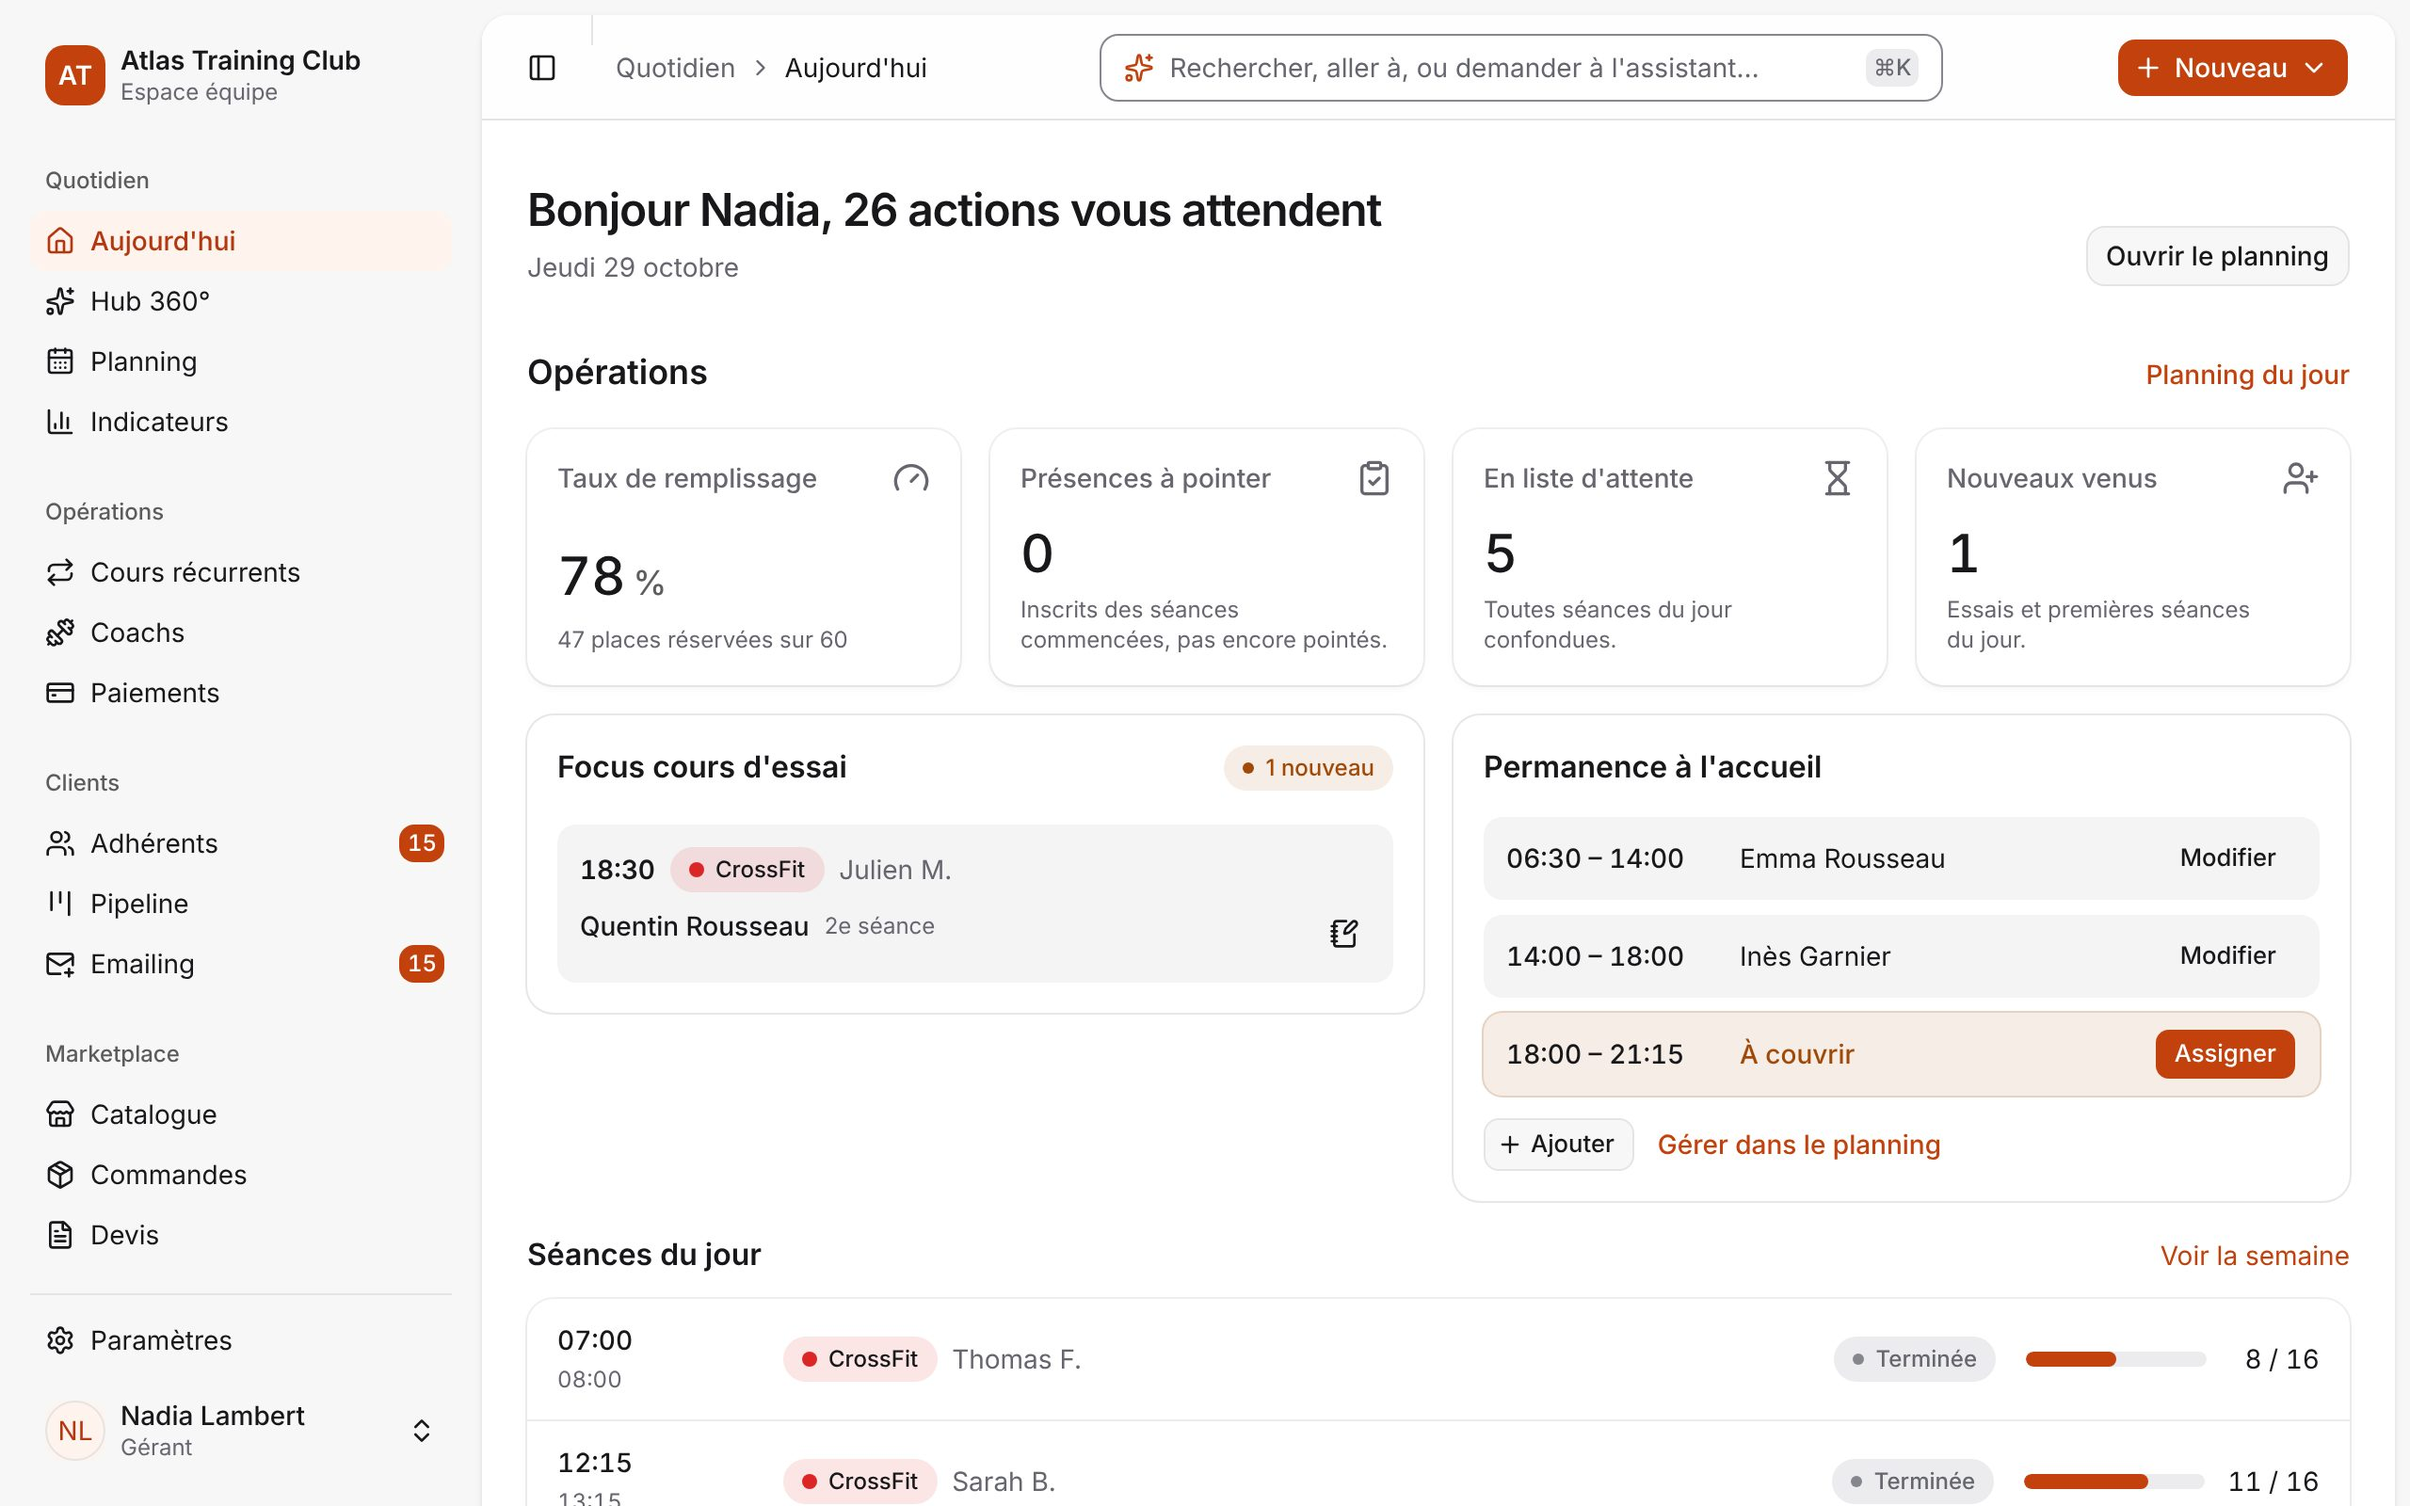
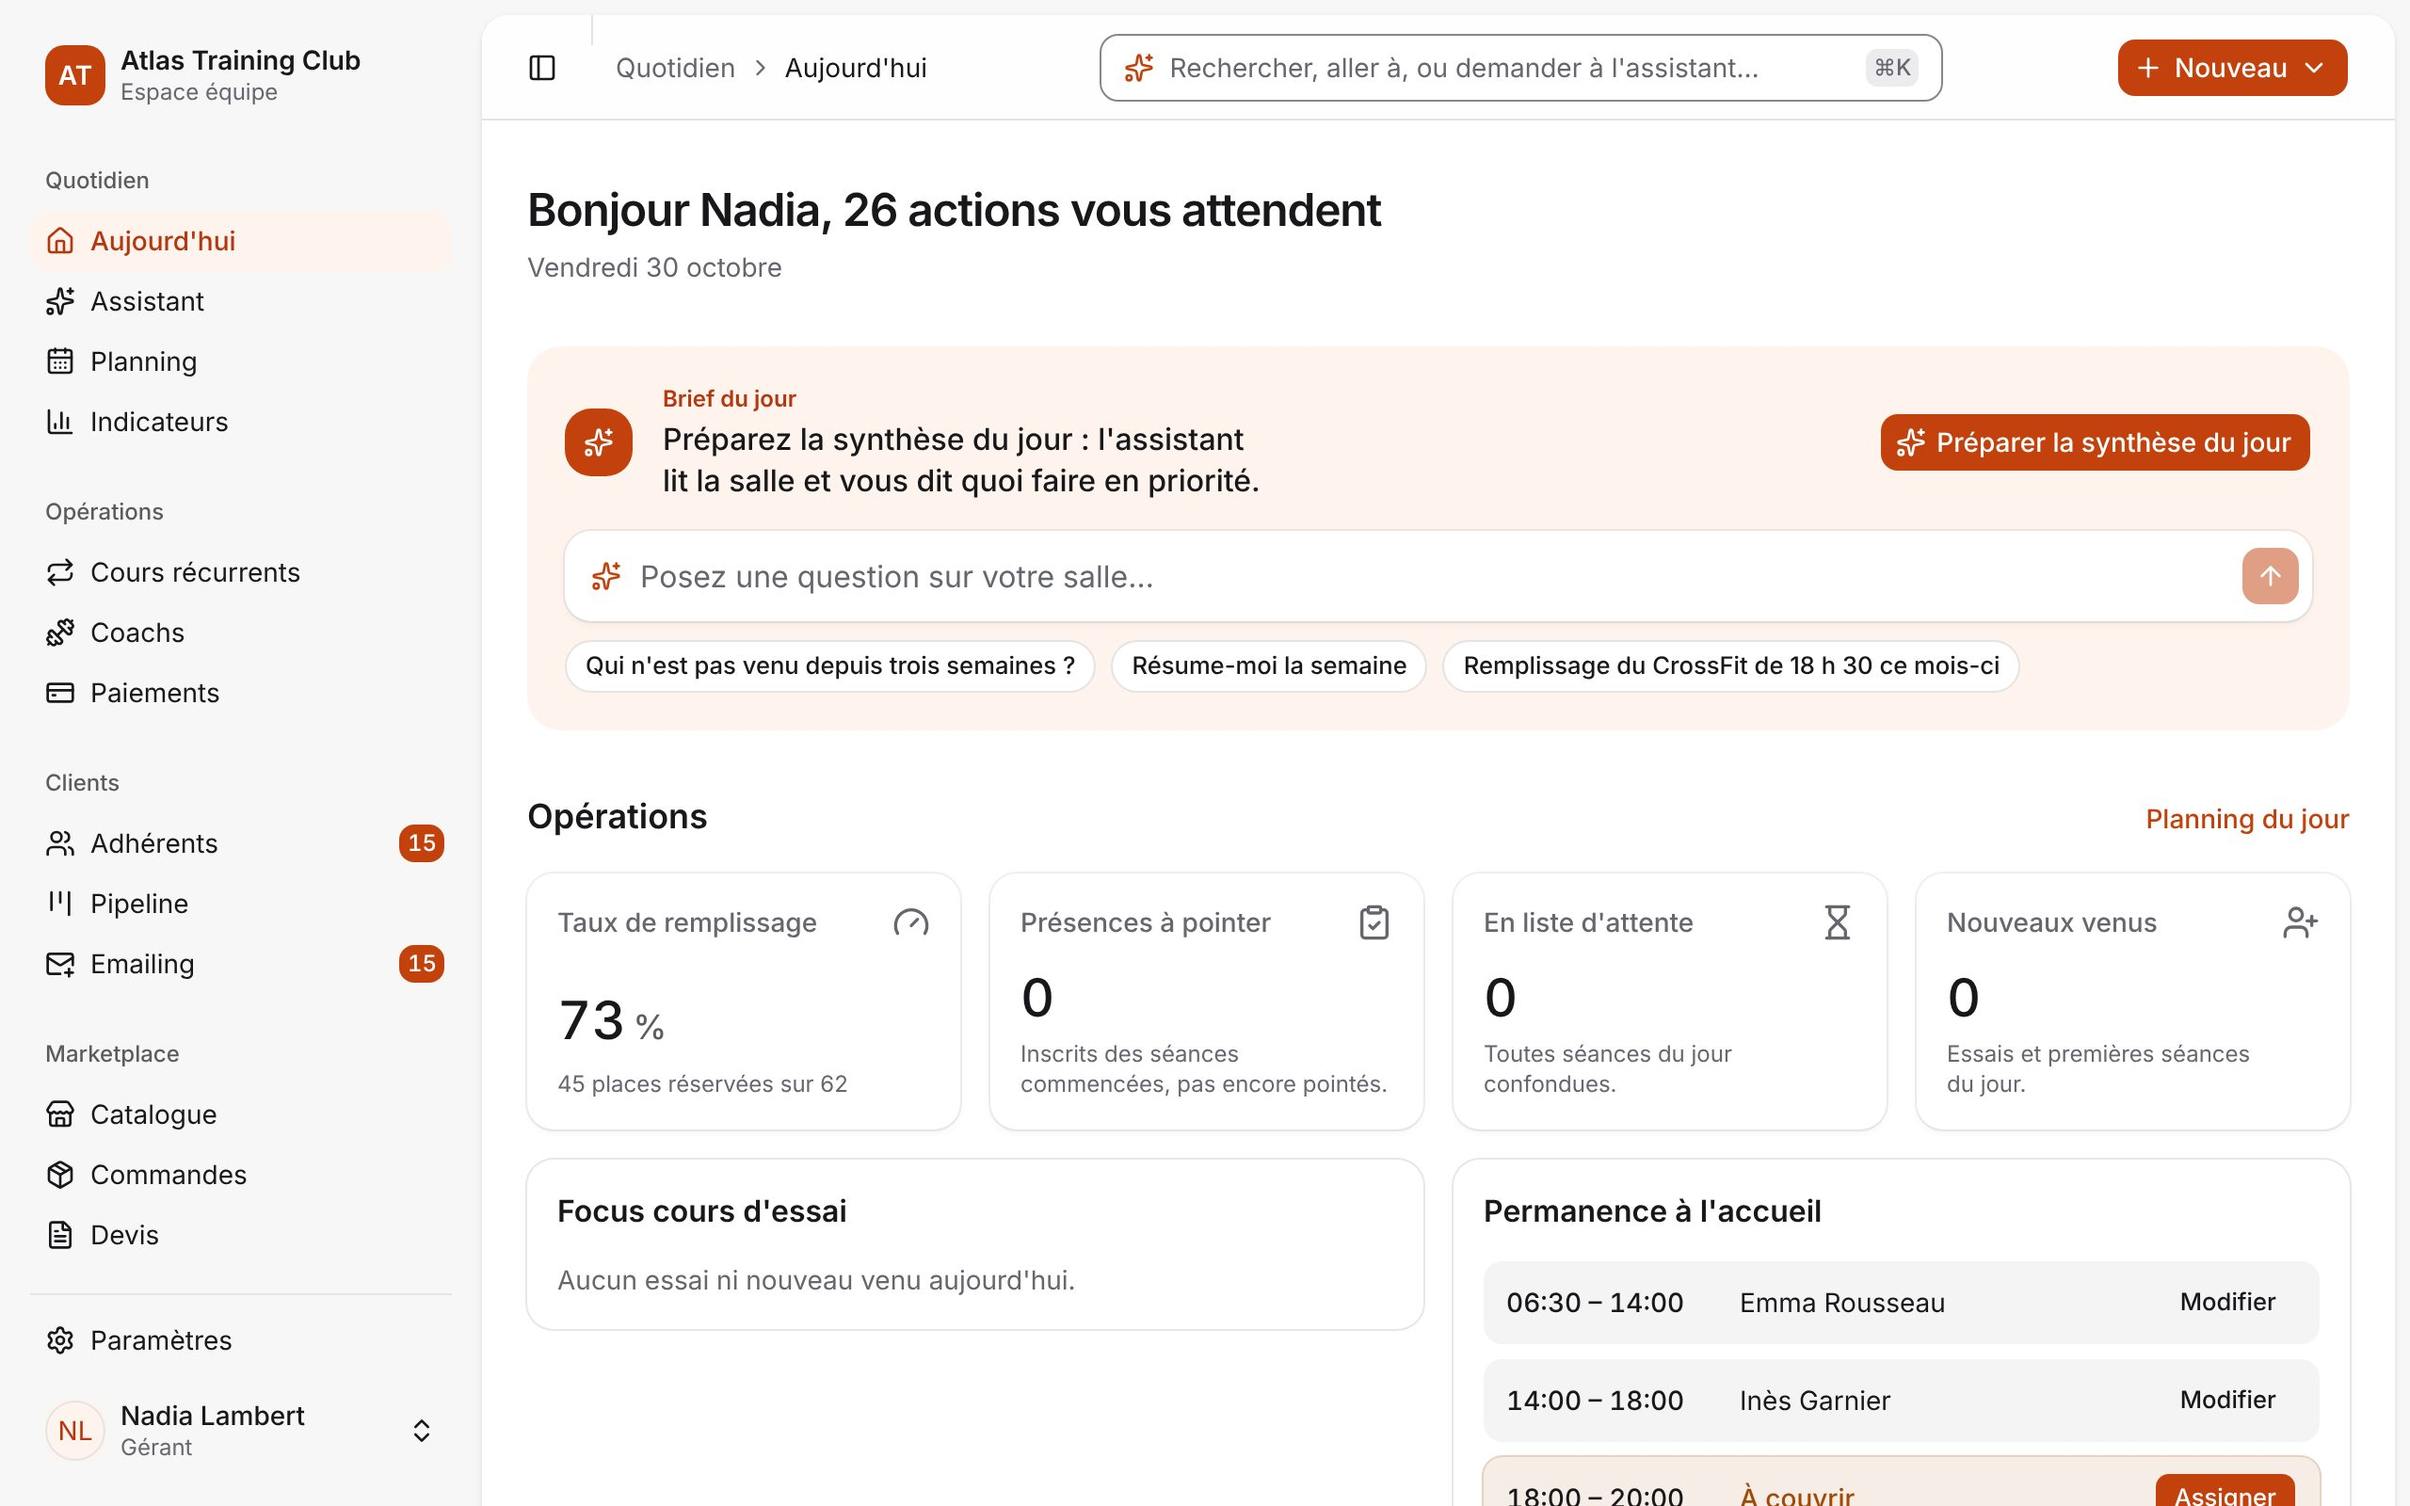
Site vitrine : captures du back office mises à jour
Captures reprises sur le nouveau back office (menu « Assistant », bloc
Assistant de l'accueil avec question libre et suggestions) ; texte alternatif
de la capture du hero ajusté.

Claude-Session: https://claude.ai/code/session_01QTv4y8ECrBLQK19fGzkX2C

diff --git a/apps/site/messages/fr.ts b/apps/site/messages/fr.ts
@@ -28,7 +28,7 @@ export const fr = {
     count:
       "{count, plural, one {# salle gère déjà son activité} other {# salles gèrent déjà leur activité}} avec {brand}",
     backofficeAlt:
-      "Page Aujourd'hui du back office {brand} : séances du jour, essais à accueillir, permanence et impayés.",
+      "Page Aujourd'hui du back office {brand} : brief de l'assistant, question libre, indicateurs du jour et permanence à l'accueil.",
     appAlt: "Planning de la semaine dans l'app adhérent {brand}, avec les places restantes.",
   },
   benefits: {
